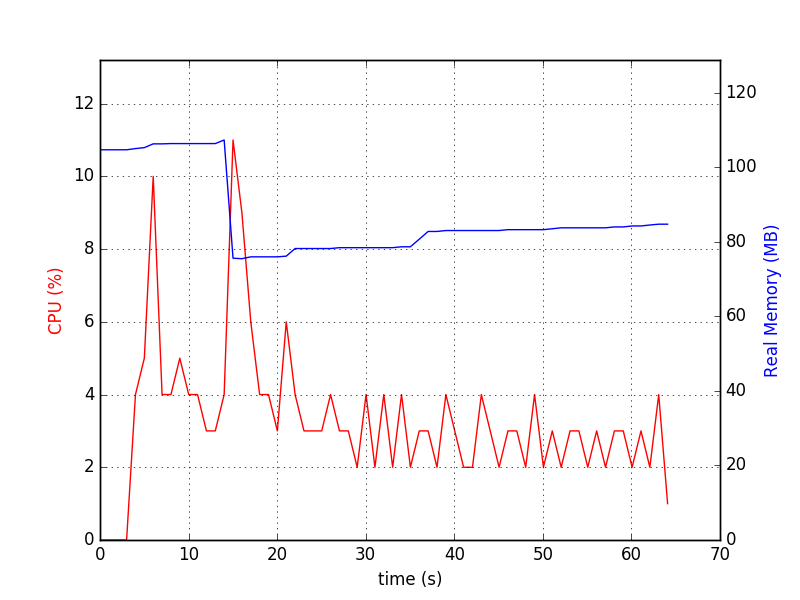
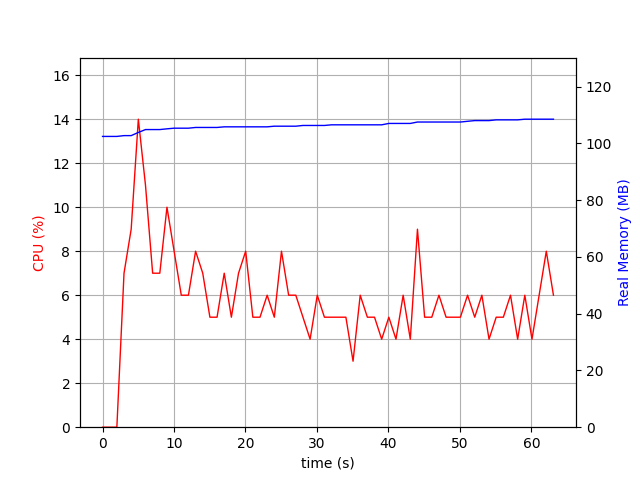
Reprofile osprey-mock-service. Avoid absolute numbers

diff --git a/README.md b/README.md
@@ -21,10 +21,10 @@ Based on profiling results produced by a specific profiling techniques used and 
   * Real memory usage increased from 80-110mb to 150-175mb.
 
 **Osprey-mock-service.** After the rework with `webapi-parser`:
-  * An average time per request decreased by ~9% (4.3s to 3.9s);
-  * Number of requests an application is able to serve per second increased by  ~9% (2300 to 2500);
-  * Average CPU usage stayed roughly the same with periodic spikes increasing from 11% to 22%;
-  * Real memory usage increased from 80-110mb to 150-200mb.
+  * An average time per request decreased by ~17%;
+  * Number of requests an application is able to serve per second increased by  ~17%;
+  * Average CPU usage stayed roughly the same with periodic 5x spikes;
+  * Real memory usage increased from 100-110mb to 150-200mb.
 
 # Osprey
 ## Setup
@@ -141,7 +141,7 @@ Percentage of the requests served within a certain time (ms)
 Installation:
 ```sh
 sudo pip uninstall Pillow
-sudo pip install psrecord matplotlib Pillowm
+sudo pip install psrecord matplotlib Pillow
 sudo apt-get install python-tk
 npm install -g artillery
 ```
@@ -194,7 +194,7 @@ sudo apt install apache2-utils
 
 Start server with:
 ```sh
-osprey-mock-service -f /path/to/osprey-profiling/world-music-api/api.raml -p 3000
+osprey-mock-service -f ./world-music-api/api.raml -p 3000
 ```
 
 Make requests and profile with (this makes 50000 requests with 10 concurrency):
@@ -208,33 +208,33 @@ Document Path:          /v1/songs?genre=foo&access_token=123
 Document Length:        0 bytes
 
 Concurrency Level:      10
-Time taken for tests:   21.649 seconds
+Time taken for tests:   58.818 seconds
 Complete requests:      50000
 Failed requests:        0
 Total transferred:      3750000 bytes
 HTML transferred:       0 bytes
-Requests per second:    2309.53 [#/sec] (mean)
-Time per request:       4.330 [ms] (mean)
-Time per request:       0.433 [ms] (mean, across all concurrent requests)
-Transfer rate:          169.16 [Kbytes/sec] received
+Requests per second:    850.08 [#/sec] (mean)
+Time per request:       11.764 [ms] (mean)
+Time per request:       1.176 [ms] (mean, across all concurrent requests)
+Transfer rate:          62.26 [Kbytes/sec] received
 
 Connection Times (ms)
               min  mean[+/-sd] median   max
-Connect:        0    0   0.1      0      14
-Processing:     1    4   1.4      4     214
-Waiting:        1    4   1.4      4     212
-Total:          1    4   1.4      4     214
+Connect:        0    0   0.2      0       4
+Processing:     2   11   4.0     12      49
+Waiting:        2   10   3.7     11      47
+Total:          2   12   4.1     12      49
 
 Percentage of the requests served within a certain time (ms)
-  50%      4
-  66%      4
-  75%      5
-  80%      5
-  90%      5
-  95%      6
-  98%      7
-  99%      8
- 100%    214 (longest request)
+  50%     12
+  66%     14
+  75%     14
+  80%     15
+  90%     16
+  95%     17
+  98%     22
+  99%     23
+ 100%     49 (longest request)
 ```
 
 ### rework_webapi_parser
@@ -243,41 +243,42 @@ Document Path:          /v1/songs?genre=foo&access_token=123
 Document Length:        0 bytes
 
 Concurrency Level:      10
-Time taken for tests:   19.551 seconds
+Time taken for tests:   49.847 seconds
 Complete requests:      50000
 Failed requests:        0
 Total transferred:      3750000 bytes
 HTML transferred:       0 bytes
-Requests per second:    2557.47 [#/sec] (mean)
-Time per request:       3.910 [ms] (mean)
-Time per request:       0.391 [ms] (mean, across all concurrent requests)
-Transfer rate:          187.31 [Kbytes/sec] received
+Requests per second:    1003.08 [#/sec] (mean)
+Time per request:       9.969 [ms] (mean)
+Time per request:       0.997 [ms] (mean, across all concurrent requests)
+Transfer rate:          73.47 [Kbytes/sec] received
 
 Connection Times (ms)
               min  mean[+/-sd] median   max
-Connect:        0    0   0.1      0       2
-Processing:     1    4   2.5      3     211
-Waiting:        1    3   2.4      3     211
-Total:          1    4   2.5      3     211
+Connect:        0    0   0.3      0       8
+Processing:     1   10   3.5     10     101
+Waiting:        1    8   3.2      8      99
+Total:          2   10   3.6     11     101
 
 Percentage of the requests served within a certain time (ms)
-  50%      3
-  66%      4
-  75%      4
-  80%      4
-  90%      5
-  95%      6
-  98%      8
-  99%     10
- 100%    211 (longest request)
+  50%     11
+  66%     11
+  75%     12
+  80%     13
+  90%     14
+  95%     15
+  98%     17
+  99%     18
+ 100%    101 (longest request)
 ```
 
 ## CPU and memory usage
 ### Setup
 Installation:
 ```sh
-sudo pip install psrecord
-sudo apt-get install python-matplotlib python-tk
+sudo pip uninstall Pillow
+sudo pip install psrecord matplotlib Pillow
+sudo apt-get install python-tk
 npm install -g artillery
 ```
 
@@ -285,7 +286,7 @@ In three different terminals:
 
 1. Start server with:
 ```sh
-osprey-mock-service -f /path/to/osprey-profiling/world-music-api/api.raml -p 3000
+osprey-mock-service -f ./world-music-api/api.raml -p 3000
 ```
 
 2. Start profiler:
